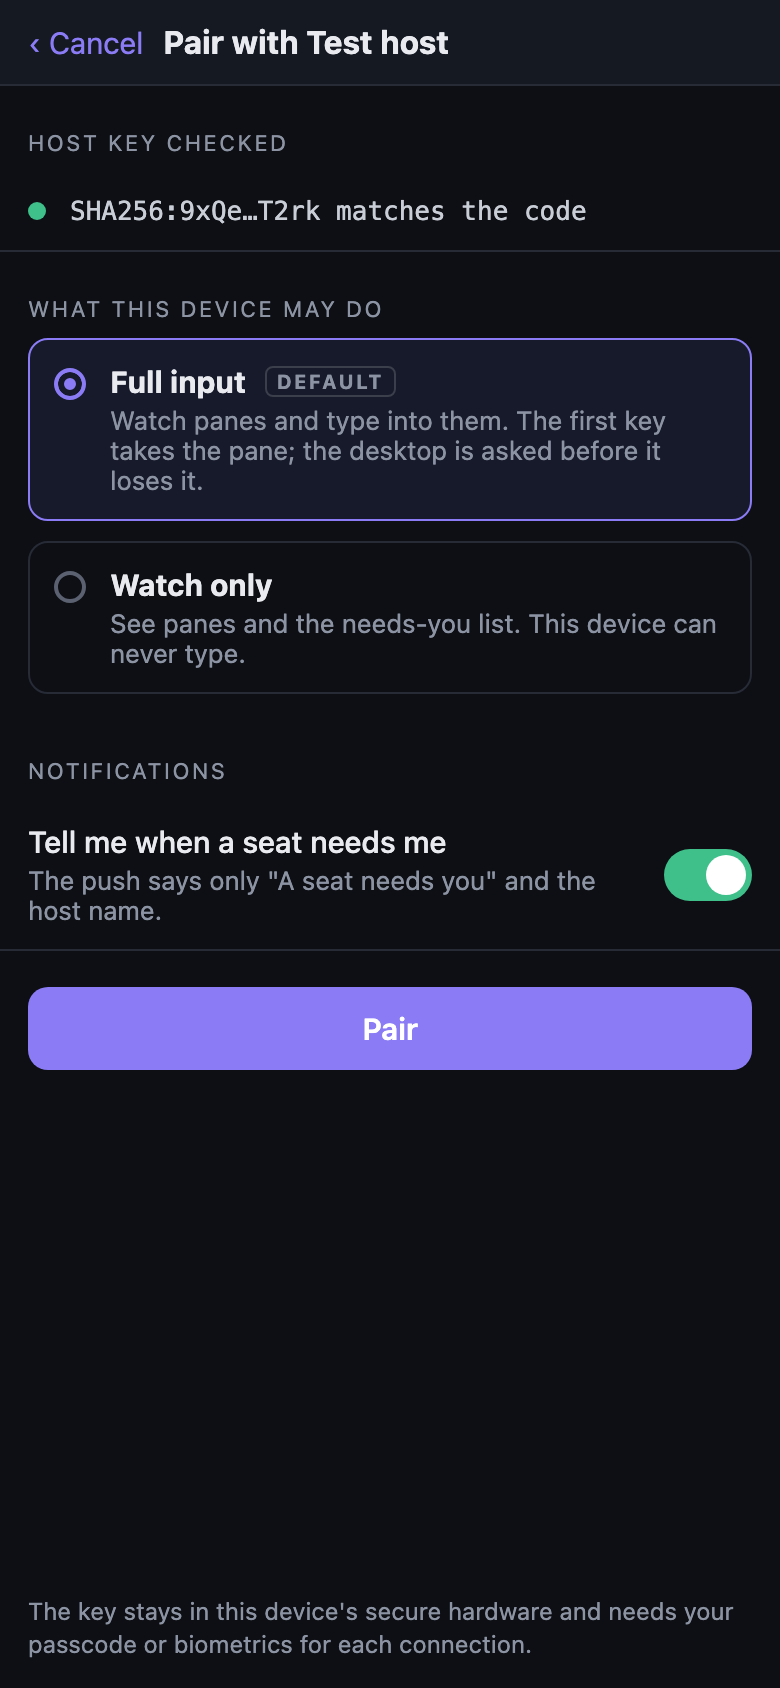
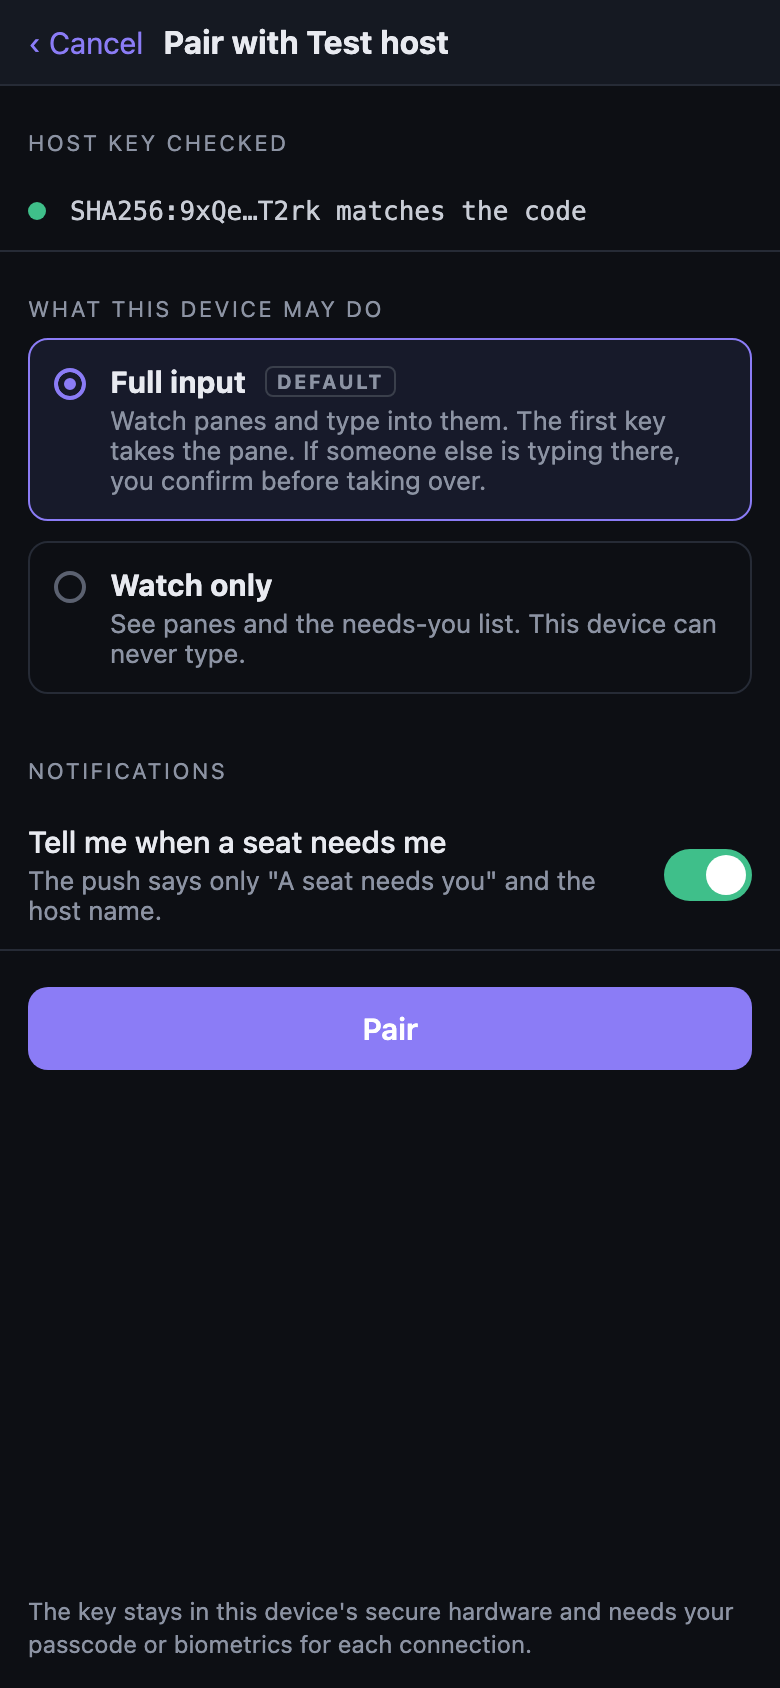
Show the overlay source limit in the key example and fix the takeover wording

Changed region(s): [[0.1538, 0.2464, 0.8615, 0.3081]]

diff --git a/docs/design/remote-attach-transport.md b/docs/design/remote-attach-transport.md
@@ -196,7 +196,8 @@ from the pairing code is dialed.
 Pairing writes one line per device (wrapped here; it is one line on disk):
 
 ```
-restrict,pty,command="pmux companion gate --device dev_7f3a --scope drive"
+from="<overlay range>",restrict,pty,
+  command="pmux companion gate --device dev_7f3a --scope drive"
   ecdsa-sha2-nistp256 AAAA... prismattyc-companion dev_7f3a
 ```
 
